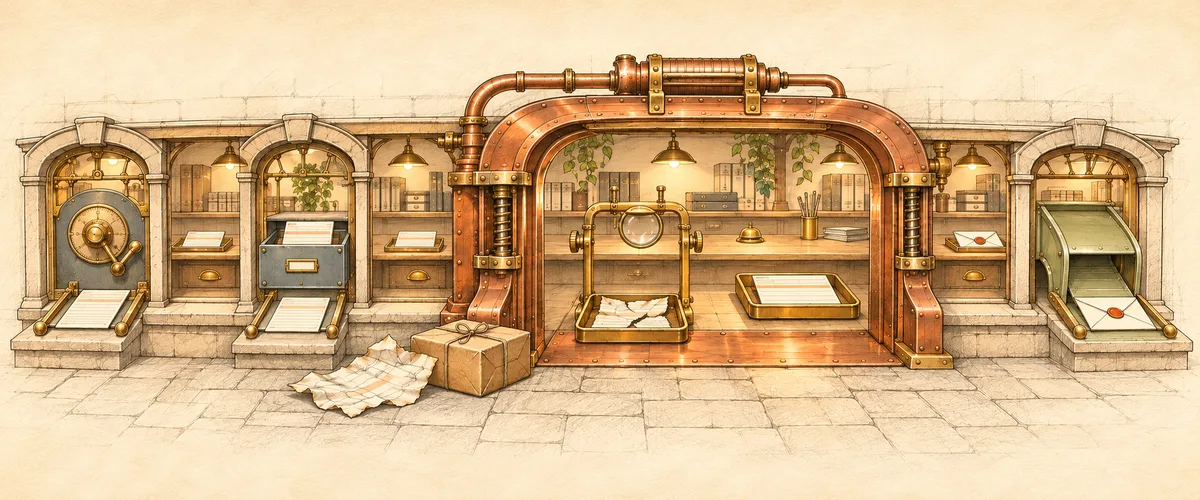
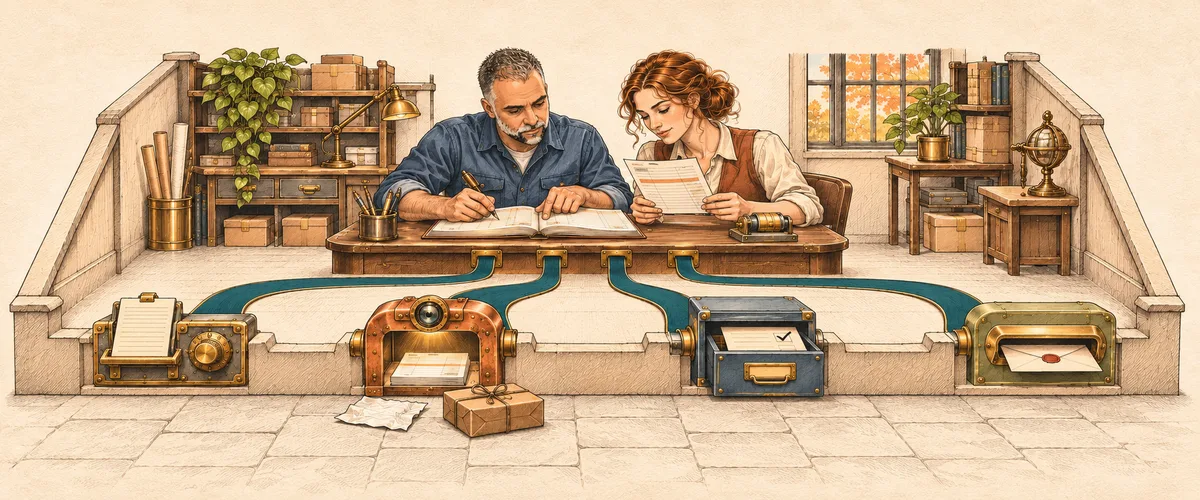
Show boundary leaf nodes in article artwork

diff --git a/src/assets/heroes/boundary-classes.prompt.md b/src/assets/heroes/boundary-classes.prompt.md
@@ -1,13 +1,17 @@
 # Boundary Classes: One Idea at Many Doors
 
-Built-in image generation. The attached colour reference was `verified-not-trusted-expense-analysis-part-two.webp`. The generated original measured 2172 x 724. It was exported at 1600 x 534 WebP, quality 82, using `tools/prepare-image.mjs` with `--role article`. The center-fit export retains the four hatches and complete inspection scene.
+This revision uses four separate checkout connections to show the boundary classes as leaf nodes. Each teal track ends at a station in the wall. Shiv and his colleague handle the clean quote at the interior desk while the raw slip and parcel stay at the gateway.
+
+Built-in image generation used `docs/style-references/shiv-kumar-portrait.webp` for likeness and `verified-not-trusted-expense-analysis-part-two.webp` for colour and linework. The source measured 2172 x 724. The export measured 1600 x 534 WebP, quality 82, using `tools/prepare-image.mjs` with `--role article`. The publication artwork and its original brief are recorded in commit `745eb5e007fa81e0f0f9b8e69903964ef3896290`.
 
 ## Generation prompt
 
-Use case: stylized-concept. Asset type: the Matlus article hero for Boundary Classes: One Idea at Many Doors. Image 1 is the approved reference for ink treatment, warm paper, contrast and selective colour only. This article is about four types of software boundary that check and translate different kinds of outside material into something the same application can use. The central example changes a raw shipping service reply into a clean price-and-delivery quote behind a gateway.
+Use case: stylized-concept. Asset type: replacement Matlus hero for Boundary Classes: One Idea at Many Doors. Image 1 is the supplied likeness of Shiv Kumar. Image 2 is a colour and linework reference only. Create a new panoramic scene in the site's hand-drawn technical editorial ink style.
 
-Draw a fine pen-and-ink architectural cutaway model of a single long, continuous, warm-lit checkout workroom seen in shallow front three-quarter perspective. Four different inspection hatches connect the exterior to that same unbroken room. Make the largest copper shipping-quote hatch the clear central focus. Immediately outside it sit a crumpled carrier slip and a small parcel. A simple brass inspection frame within the doorway has a rejected torn slip resting in a shallow tray below it. Immediately inside it sits a clean rectangular quote slip in a neat receiving tray. Treat this as one coherent physical threshold. At the three other smaller hatches show an unmistakable configuration dial with an input card, a slate-blue filing drawer with an index card, and a sage-green dispatch chute with a sealed envelope. Their inner trays face the same quiet checkout work surface along the back. Keep the view of the shared interior continuous and the copper hatch largest. The contrast between differently shaped outside material and the orderly usable items inside is the core visual.
+Show a checkout workroom as a single cutaway model with its front wall lowered, seen from a gently elevated three-quarter front angle. At the center, comfortably inside the room, Shiv and one distinct adult woman colleague work together behind one compact walnut checkout desk. Make their faces, upper bodies and working hands large enough to see at listing-card size. Shiv has the reference's strong brows, short slightly spiked salt-and-pepper hair and neatly trimmed peppered beard, a natural intent expression and a slate-blue work shirt. His colleague has warm auburn hair tied back and a cream shirt with a muted rust vest. She holds a clean rectangular shipping quote for him to check against the open order ledger. Both look at their shared task. Use the same pen-and-ink treatment and light for both people.
 
-Hand-drawn technical editorial illustration with fine black linework and cross-hatching, visible pencil construction detail, tangible wood and brass, slightly retro architectural instructional-manual feel. Warm luminous ivory paper, gently bright highlights a little softer than the reference, rich selective brass and copper, restrained slate blue and sage, never dull grey or garish. Draw believable mechanisms and precisely defined thresholds. No people. No text, letters, numbers, arrows, logos, watermark, labels, heavy border or legend. Artistic illustration rather than infographic or photographic render.
+Show the boundary classes as LEAF NODES using physical connections that can be traced with the eye. From the front of the single interior desk, four independent wide, short, dark teal inlaid tracks fan out across a clear light floor, each ending abruptly and visibly in a socket on exactly one compact station set into the lowered perimeter wall. Draw four tracks and exactly four separate terminal stations. Left to right: a configuration fixture with an ivory input card and brass dial; a copper shipping inspection gateway with a small lens and clean inside quote tray; a slate-blue data drawer with a checked record; a sage-green message dispatch slot with a sealed envelope. Each station is an endpoint with one incoming teal track and no track leaving the station or connecting to another station. The fan and every endpoint should stand out clearly from the floor at phone size. Keep the people behind the desk, above this clear fan, so faces and hands never cover its connections. Outside the wall and directly in front of the copper gateway only, show a crumpled carrier slip and a small tied parcel on a contrasting pale stone apron. The crisp quote is inside in the colleague's hand, and the carrier slip stays outside. The outside apron has no teal tracks. The main idea visible at a glance is one place where checkout decisions are made, with details handled at four dead-end boundary stations on the edge.
 
-Extra-wide panoramic canvas approximately 3:1, at least 1600 by 534 pixels, ideally 1920 by 640 or greater. Fill the width with the one shared architectural structure, with spare outer masonry/sketch margins. Keep all four hatch openings, exposed input and output slips, and the central parcel and rejection tray comfortably within the middle horizontal band so that a 3:1 center crop can preserve the entire defining action if the generator returns a taller canvas. Keep the hatches and the central gateway action clear at thumbnail size.
+Fine black pen linework, precise cross-hatching, subtle pencil construction marks, illustrated real objects, restrained natural colours on gently luminous ivory paper. Use the approved reference's copper and brass accents, warm auburn hair and readable dark lines, with slightly gentler highlights. Prioritize a clean composition and broad simple shapes for the tracks and fixtures over workshop clutter or decorative machinery. No lettering, numbers, code, callouts, arrows, logos, watermark, thick frame or text. All physical elements in one coherent, believable space.
+
+Extra-wide 3:1 landscape, native 1920 x 640 or larger when possible. Final hero export 1600 x 534. Place the complete two heads and working hands, desk, all four teal track ends and all four boundary fixtures, parcel and crumpled slip comfortably inside the central horizontal 3:1 safe band. Leave a little breathing room above their heads and below the exterior slips, and avoid oversized blank sides.

diff --git a/src/assets/heroes/boundary-classes-card.prompt.md b/src/assets/heroes/boundary-classes-card.prompt.md
@@ -1,11 +1,11 @@
 # Boundary Classes listing card
 
-Built-in image generation. The edit target was the 1600 x 534 article hero in `boundary-classes.webp`. The 1942 x 809 original was exported at 1200 x 500 WebP, quality 82, using `tools/prepare-image.mjs` with `--role card`. The export retains the four hatches and the central inspection scene. The new space continues the paper and floor above and below the retained scene.
+Built-in image generation extended the selected `boundary-classes.webp` above and below. The two people, their ledger and quote, and all four paths and terminal stations remain visible. The source measured 1942 x 809. It was exported as 1200 x 500 WebP, quality 82, using `tools/prepare-image.mjs` with `--role card`. The original publication card used for the separate social preview is stored in commit `745eb5e007fa81e0f0f9b8e69903964ef3896290`.
 
 ## Generation prompt
 
-Use case: faithful outpainting, companion website listing card for Boundary Classes: One Idea at Many Doors. Image 1 is the approved 1600 x 534 hero and the edit target. Retain its complete composition. The article follows a shipping quote across a boundary that checks and translates an outside reply. The cutaway shows four hatches joining one shared checkout workroom, with a large copper inspection gateway and its raw, rejected and clean slips as the central action.
+Use case: faithful vertical outpainting for the 12:5 listing card of Boundary Classes: One Idea at Many Doors. Image 1 is the selected 1600 x 534 article hero and the edit target. Retain the complete original central image at its current proportions and subject scale. The scene depicts software leaf-node boundary classes as four independent teal tracks that fan out from one internal checkout desk and end separately at four terminal stations in the low outer wall.
 
-Canvas: exact 12:5 landscape, at least 1200 x 500 pixels, preferably 1968 x 820 or larger for downsampling. At export scale the unchanged hero occupies the full width and approximately 400 pixels of height. Add approximately 50 pixels above and 50 below. Preserve all four hatches, their positions and relative sizes, the continuous shared counter and warm-lit room, full copper arch and top pipe, brass inspection frame with its torn slip, clean quote tray, carrier parcel and crumpled outside slip, configuration dial, slate filing drawer and sage dispatch chute with its sealed envelope. No cast or people. Keep their scale and linework exactly as in the source. Do not zoom, crop, stretch or reframe.
+Keep both people exactly recognizable: Shiv in his slate-blue shirt with short salt-and-pepper hair and a trimmed beard, looking at the order ledger with pencil in hand, and the distinct auburn-haired colleague in her cream shirt and rust vest, comparing the clean quote. Preserve their identities, scale, posture, expressions, complete heads and hands, the ledger and the quote. Preserve the walnut desk and its four teal tracks, every trace from its desk socket to its separate end, and all four fixtures in their original order and colours: brass configuration dial, copper shipping gateway with inspection lens, slate-blue data drawer with checked record, sage dispatch slot with sealed envelope. The crumpled slip and tied parcel stay outside the low wall, and the teal tracks stay inside. Keep the recognizable shelves, lamp, window and angled room walls. No new cast or new track.
 
-Extend only the sparse ivory drafting paper and the existing architectural sketch lines above, and continue the floor tiles and subtle ink details below. Keep the added bands naturally integrated and subordinate. Preserve the approved hero's ivory, ink contrast, gentle brightness and accent saturation. The original warm ivory and selective copper, slate and sage were designed using the Matlus Expense Analysis Part Two colour reference. No labels, added characters, extra hatches, foreground objects, graphic marks, borders, lettering or watermark. Four doors and the central quote should still read clearly at 366 x 153 and 320 pixels wide.
+Use an exact 12:5 landscape canvas of at least 1200 x 500 pixels, preferably 1944 x 810 or larger. At export scale retain the original full-width 1200 x 400.5 centered scene. Extend by about 50 pixels above and 50 below, matching fine paper, quiet wall perspective and the hand-drawn floor stonework. Continue the floor beneath the parcel so it has breathing room. No zoom, crop, stretching, repositioning, lost heads or obscured connections. Match the original fine black pen linework, ivory warmth, gentle brightness, dark teal and copper accents and natural skin and hair colours. The initial palette was established with the Matlus Expense Analysis Part Two colour reference. Keep the illustration readable at 366 x 153 and at 320 pixels wide. No text, newly legible marks, logos, watermarks, framing bands, symbols or extra props.
